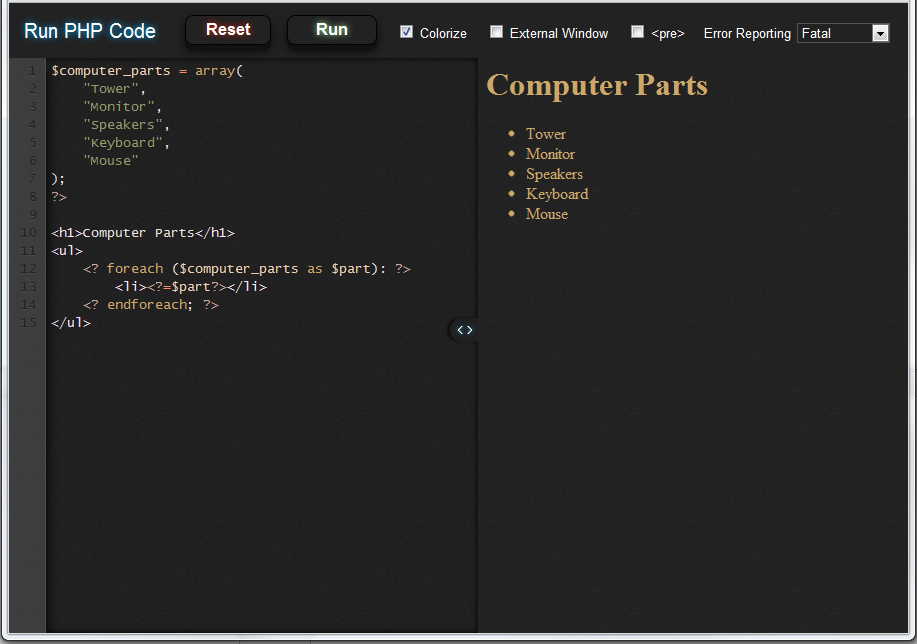
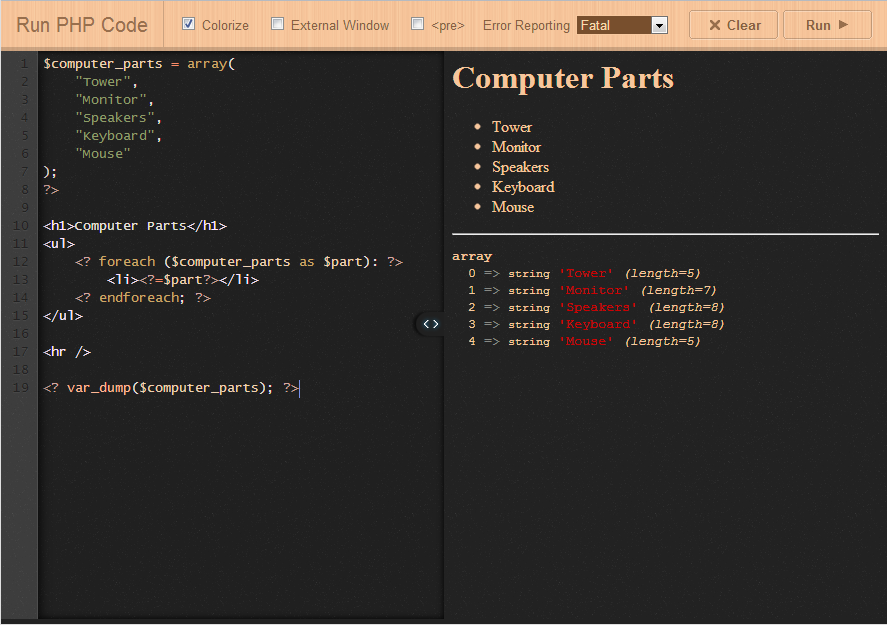
Update theme

Changed region(s): [[0.0, 0.0, 1.0, 1.0], [0.5479, 0.4256, 0.8219, 0.5776], [0.487, 0.4864, 0.5175, 0.5168]]

diff --git a/colorize.css b/colorize.css
@@ -1,5 +1,5 @@
 html {
 	background-color: #222;
[1 lines of base64/hex data omitted]
-	color: #CDA869;
+	color: #f7c69c;
 }

diff --git a/run_php_code.css b/run_php_code.css
@@ -3,63 +3,39 @@ body { background-color: #222; color: #555; font-family: arial; overflow: hidden
 form { padding: 0; margin: 0; }
 
 #title_bar { 
+	background-image: url(wooden_bar.png);
+	background-position: 0 -5px;
+	background-repeat: repeat-x;
 	font-size: 13px; 
-	line-height: 55px; 
-	color: #FFF; 
-	height: 55px;
-	width: 1024px;
-	padding-left: 15px;
+	line-height: 48px; 
+	color: #885f3d; 
+	height: 50px;
+	width: 100%;
 }
-#title { font-size: 20px; text-shadow: 0 0 10px #00aaff; margin-right: 15px; }
+#title { font-size: 20px; padding: 0 15px; color: #986f4d; float: left; height: 50px; line-height: 47px; border-right: 1px solid #cca380; }
 
 .CodeMirror { font-size: 13px; float: left; width: 50%; }
 
 .btn {
-	top: -3px;
-	position: relative;
-	color: #FFF;
-	background-color: #222;
-	font-size: 16px;
+	background-image: url(button_sprite.png);
+	width: 90px;
+	height: 30px;
+	border: 0;
+	background-color: transparent;
 	font-weight: bold;
-	/* display: block; */
-	padding: 4px 20px;
-	-webkit-border-radius: 8px;
-	-moz-border-radius: 8px;
-	border-radius: 8px;
-	-webkit-box-shadow: 0px 6px 0px #111, 0px 6px 15px rgba(0,0,0,.7);
-	-moz-box-shadow: 0px 6px 0px #111, 0px 6px 15px rgba(0,0,0,.7);
-	box-shadow: 0px 6px 0px #111, 0px 6px 15px rgba(0,0,0,.7);
-	text-align: center;
-
-	-webkit-transition: all .1s ease;
-	-moz-transition: all .1s ease;
-	-ms-transition: all .1s ease;
-	-o-transition: all .1s ease;
-	transition: all .1s ease;
 	cursor: pointer;
-	border: 1px solid black;
-	margin-left: 10px;
+	color: #885f3d; 
 }
-
-.btn:hover { background-color: #2A2A2A;	}
-
-.btn:active {
-		-webkit-box-shadow: 0px 2px 0px #111, 0px 2px 5px rgba(0,0,0,.9);
-		-moz-box-shadow: 0px 2px 0px #111, 0px 2px 5px rgba(0,0,0,.9);
-		box-shadow: 0px 2px 0px #111, 0px 2px 5px rgba(0,0,0,.9);
-		position: relative;
-		top: 3px;
-}
-
+.btn:hover { background-position: 0 -30px; }
+.btn:active { background-position: 0 -60px; }
 .btn:active, #run:selected, #run:visited { outline: none;	}
+.icon { vertical-align: text-top; }
+#reset { margin-left: 14px; }
 
 #button_container { text-align: center; display: inline; }
-#button_container label { margin-left: 15px; }
+#button_container label { margin-left: 14px; }
 
-#run { width: 90px; text-shadow: 0 0 10px #aaffaa; }
-#reset { text-shadow: 0 0 10px #d92915; }
-
-#title_bar select { background-color: #222; color: #FFF; border: 1px solid #555; }
+#title_bar select { background-color: #784f2d; color: #f8d9af; border: 1px solid #f8c99f; }
 
 #php_frame { border: none; background-color: #FFF; float: right; width: 50%; }
 

diff --git a/run_php_code.js b/run_php_code.js
@@ -15,7 +15,10 @@ $(function() {
 	
 	$('#reset').click(function() {
 		var answer = confirm("Are you sure you want to clear the editor?");
-		if (answer) editor.setValue('');
+		if (answer) { 
+			editor.setValue('');
+			$('#run_php_form').submit();
+		}
 	});
 	
 	$('#external_window').click(function() {

diff --git a/index.php b/index.php
@@ -67,10 +67,8 @@ if (isset($_POST['phprun_action']) && $_POST['phprun_action'] == 'run')
 			<input type="hidden" name="phprun_action" value="run" />
 			
 			<div id="title_bar">
-				<span id="title">Run PHP Code</span>
+				<div id="title">Run PHP Code</div>
 				<div id="button_container">
-					<button class="btn" type="button" id="reset">Reset</button>
-					<button class="btn" type="submit" id="run" title="Run (Ctrl+Enter)">Run</button>
 					<label><input type="checkbox" name="colorize" checked="checked" /> Colorize</label>
 					<label><input type="checkbox" id="external_window" /> External Window</label>
 					<label><input type="checkbox" name="pre_wrap" /> &lt;pre&gt;</label>
@@ -85,6 +83,8 @@ if (isset($_POST['phprun_action']) && $_POST['phprun_action'] == 'run')
 							<option value="all">All</option>
 						</select>
 					</label>
+					<button class="btn" type="button" id="reset"><img src="clear.png" class="icon" /> Clear</button>
+					<button class="btn" type="submit" id="run" title="Run (Ctrl+Enter)">Run <img src="run.png" class="icon" /></button>
 				</div>
 			</div>
 			
